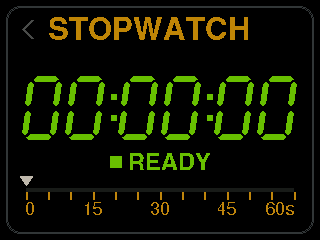
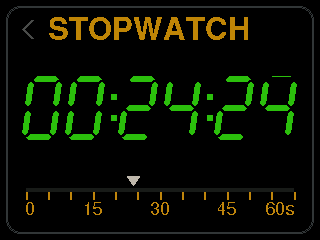
Home: the two board renders on Purpose-built, the retro clock on Fits, staged records (top speed, 7 of 50 states) and a running stopwatch
Claude-Session: https://claude.ai/code/session_017eW25LxrJbub8CcnNzSiUn

diff --git a/index.html b/index.html
@@ -8,7 +8,7 @@
 <link rel="preconnect" href="https://fonts.googleapis.com">
 <link rel="preconnect" href="https://fonts.gstatic.com" crossorigin>
 <link href="https://fonts.googleapis.com/css2?family=Roboto+Condensed:wght@400;700&display=swap" rel="stylesheet">
-<link rel="stylesheet" href="site.css?v=20261028k">
+<link rel="stylesheet" href="site.css?v=20261028l">
 </head>
 <body>
 <main>
@@ -62,7 +62,7 @@
     <div class="head in"><h2>FITS LIKE IT CAME FROM THE FACTORY</h2></div>
     <div class="lead-row">
       <p class="sub">Pop out the factory clock, plug OVERCLOCK into the same connector, and click it into the same opening. Plug the included Bluetooth adapter into the diagnostic port under the dash, and you're done.</p>
-      <img class="lead-shot" src="pages/hero-4runner.png" width="1200" height="938" alt="The 4Runner unit in its case" loading="lazy">
+      <img class="lead-shot" src="pages/case-retro.png" width="1200" height="938" alt="The 4Runner unit in its case, showing the factory clock face" loading="lazy">
     </div>
     <ul class="feat in">
       <li><b>Factory spot, factory plug.</b> Uses the clock's own connector and power. No cutting, no splicing, no new wires to run.</li>
@@ -99,9 +99,10 @@
         <div class="moment more"><h3>Fridge warm</h3><p>Amber, with how warm. Hold to quiet it for the drive.</p><img src="pages/alert-fridge.png" width="320" height="240" alt="The FRIDGE WARM notice at 42 F" loading="lazy"></div>
         <div class="moment more"><h3>Towing</h3><p>Transmission and coolant on a grade, with one verdict.</p><img src="pages/towing.png" width="320" height="240" alt="The TOWING page: trans 180, coolant 192, NORMAL" loading="lazy"></div>
         <div class="moment more"><h3>Starter battery</h3><p>Alternator, crank dip and resting volts on one page.</p><img src="pages/starter.png" width="320" height="240" alt="The STARTER page: 14.4 V charging" loading="lazy"></div>
-        <div class="moment more"><h3>Records</h3><p>States, countries, farthest, top speed, highest.</p><img src="pages/records.png" width="320" height="240" alt="The RECORDS list" loading="lazy"></div>
+        <div class="moment more"><h3>Records</h3><p>Top speed, where and when. Twenty-four of them, and the states you have driven.</p><img src="pages/records-top.png" width="320" height="240" alt="The TOP SPEED record: 80 mph, July 18 2026, Biggs Junction" loading="lazy"></div>
+        <div class="moment more"><h3>States</h3><p>Seven of fifty so far. Click for the map.</p><img src="pages/records-states.png" width="320" height="240" alt="The STATES record: 7 of 50" loading="lazy"></div>
         <div class="moment more"><h3>0 to 60</h3><p>Stop, then floor it. GPS does the timing.</p><img src="pages/zerosixty.png" width="320" height="240" alt="The 0 TO 60 timer" loading="lazy"></div>
-        <div class="moment more"><h3>Stopwatch</h3><p>And timers and alarms, because it is still a clock.</p><img src="pages/stopwatch.png" width="320" height="240" alt="The STOPWATCH page" loading="lazy"></div>
+        <div class="moment more"><h3>Stopwatch</h3><p>And timers and alarms, because it is still a clock.</p><img src="pages/stopwatch.png" width="320" height="240" alt="The STOPWATCH page, running" loading="lazy"></div>
         <div class="moment more"><h3>Games</h3><p>Four of them, on the knob, for the campsite.</p><img src="pages/games.png" width="320" height="240" alt="The GAMES page: four games" loading="lazy"></div>
         <div class="moment more"><h3>Apps</h3><p>Settings, truck, games, travel, overland, tools.</p><img src="pages/apps.png" width="320" height="240" alt="The APPS page" loading="lazy"></div>
         <div class="moment more"><h3>Settings</h3><p>Pages, display, style, clock, units and on down the list.</p><img src="pages/settings.png" width="320" height="240" alt="The SETTINGS list" loading="lazy"></div>
@@ -244,7 +245,7 @@
     <div class="head in"><h2>PURPOSE-BUILT, NOT BOLTED TOGETHER</h2></div>
     <div class="lead-row">
       <p class="sub">Not a phone holder, not a kit, not hobby boards wired together. A custom circuit board designed from a blank sheet for this one job, in a case made for your dash.</p>
-      <img class="lead-shot" src="pages/board.jpg" width="600" height="450" alt="The circuit board" loading="lazy">
+      <div class="lead-shot boards"><img src="pages/board-top.jpg" width="1400" height="1054" alt="The circuit board, top: main processor, screen connector, memory card slot" loading="lazy"><img src="pages/board-bottom.jpg" width="1400" height="1054" alt="The circuit board, underside: coprocessor, GPS, screw terminals, factory plug" loading="lazy"></div>
     </div>
     <ul class="feat in">
       <li><b>A custom circuit board.</b> Every part chosen for life in a truck: summer heat, winter cold and the voltage spikes a starter throws.</li>
@@ -317,6 +318,6 @@
 document.addEventListener('gesturestart', e => e.preventDefault(), { passive: false });
 document.addEventListener('touchmove', e => { if (e.scale !== undefined && e.scale !== 1) e.preventDefault(); }, { passive: false });
 </script>
-<script src="index.js?v=20261028k"></script>
+<script src="index.js?v=20261028l"></script>
 </body>
 </html>

diff --git a/3d.html b/3d.html
@@ -8,8 +8,8 @@
 <link rel="preconnect" href="https://fonts.googleapis.com">
 <link rel="preconnect" href="https://fonts.gstatic.com" crossorigin>
 <link href="https://fonts.googleapis.com/css2?family=Roboto+Condensed:wght@400;700&display=swap" rel="stylesheet">
-<link rel="stylesheet" href="site.css?v=20261028k">
-<link rel="stylesheet" href="3d.css?v=20261028k">
+<link rel="stylesheet" href="site.css?v=20261028l">
+<link rel="stylesheet" href="3d.css?v=20261028l">
 </head>
 <body class="demo three">
 <header class="bar">
@@ -50,9 +50,9 @@
 document.addEventListener('gesturestart', e => e.preventDefault(), { passive: false });
 document.addEventListener('touchmove', e => { if (e.scale !== undefined && e.scale !== 1) e.preventDefault(); }, { passive: false });
 </script>
-<script src="overclock.js?v=20261028k"></script>
+<script src="overclock.js?v=20261028l"></script>
 <script type="module">
-import {THREE, OrbitControls, GLTFLoader, MeshoptDecoder, RoomEnvironment} from './lib/three-viewer.js?v=20261028k';   // Three.js 0.169 and its loaders, bundled
+import {THREE, OrbitControls, GLTFLoader, MeshoptDecoder, RoomEnvironment} from './lib/three-viewer.js?v=20261028l';   // Three.js 0.169 and its loaders, bundled
 
 const BASE = '3d/';                 // the models, labels and still screens
 const FW = { base: 'dist/', v: '2026-10-28f' };   // the site's own firmware files

diff --git a/demo.html b/demo.html
@@ -8,8 +8,8 @@
 <link rel="preconnect" href="https://fonts.googleapis.com">
 <link rel="preconnect" href="https://fonts.gstatic.com" crossorigin>
 <link href="https://fonts.googleapis.com/css2?family=Roboto+Condensed:wght@400;700&display=swap" rel="stylesheet">
-<link rel="stylesheet" href="site.css?v=20261028k">
-<link rel="stylesheet" href="demo.css?v=20261028k">
+<link rel="stylesheet" href="site.css?v=20261028l">
+<link rel="stylesheet" href="demo.css?v=20261028l">
 </head>
 <body class="demo">
 <header class="bar">
@@ -118,7 +118,7 @@
 document.addEventListener('gesturestart', e => e.preventDefault(), { passive: false });
 document.addEventListener('touchmove', e => { if (e.scale !== undefined && e.scale !== 1) e.preventDefault(); }, { passive: false });
 </script>
-<script src="overclock.js?v=20261028k"></script>
-<script src="demo.js?v=20261028k"></script>
+<script src="overclock.js?v=20261028l"></script>
+<script src="demo.js?v=20261028l"></script>
 </body>
 </html>

diff --git a/site.css b/site.css
@@ -101,6 +101,8 @@ section.page .sub { font-size: var(--t-lead); color: var(--ink); margin-top: 16p
 .lead-row { display: grid; grid-template-columns: repeat(12, minmax(0, 1fr)); column-gap: var(--gap); align-items: center; padding-right: var(--margin); }
 .lead-row .sub { grid-column: 1 / 8; }
 .lead-row .lead-shot { grid-column: 8 / 13; width: 100%; max-width: 420px; height: auto; justify-self: end; margin-top: 16px; border: 1px solid #2a2a2a; border-radius: 6px; background: #000; }
+.lead-row .lead-shot.boards { display: grid; grid-template-columns: 1fr 1fr; gap: 8px; max-width: 560px; border: 0; background: transparent; }
+.lead-row .lead-shot.boards img { width: 100%; height: auto; border: 1px solid #2a2a2a; border-radius: 6px; background: #000; }
 @media (max-width: 900px) { .lead-row { display: block; padding-right: 0; } .lead-row .lead-shot { margin: 24px var(--margin) 0; max-width: calc(100% - 2 * var(--margin)); } }
 
 /* the knob: a drag row of moments */
